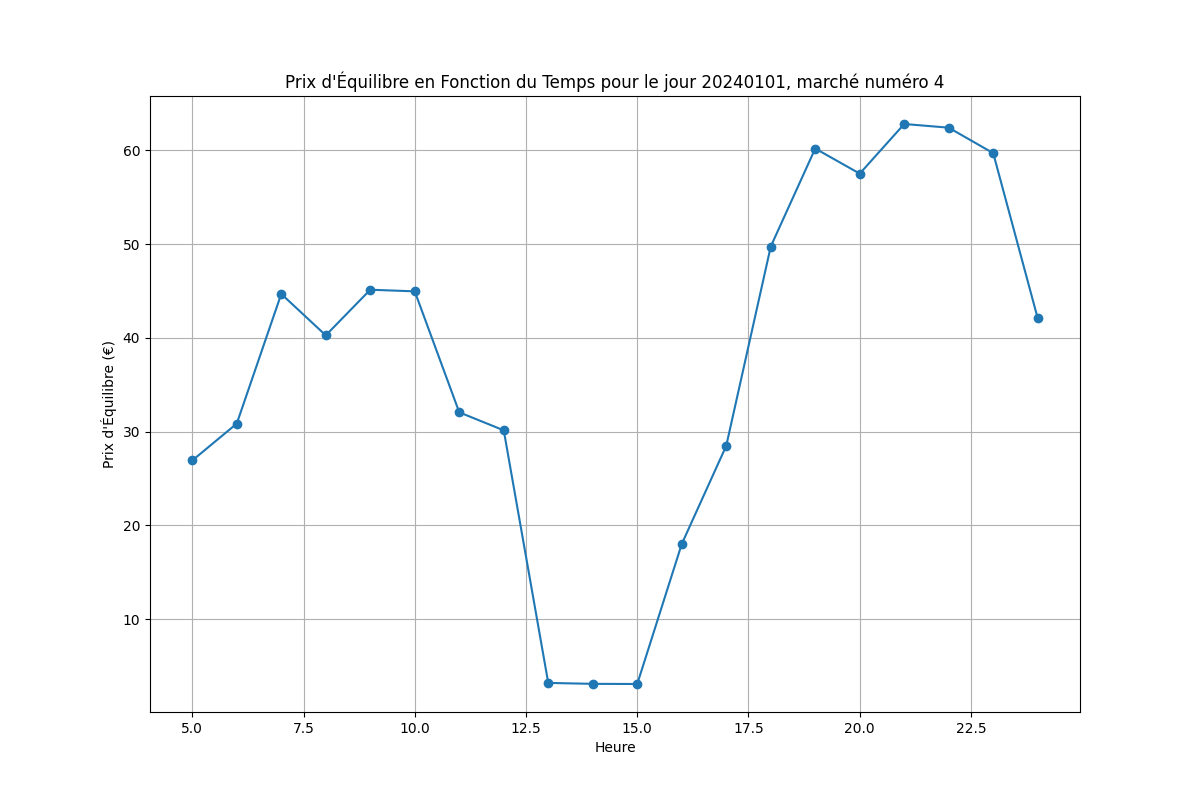
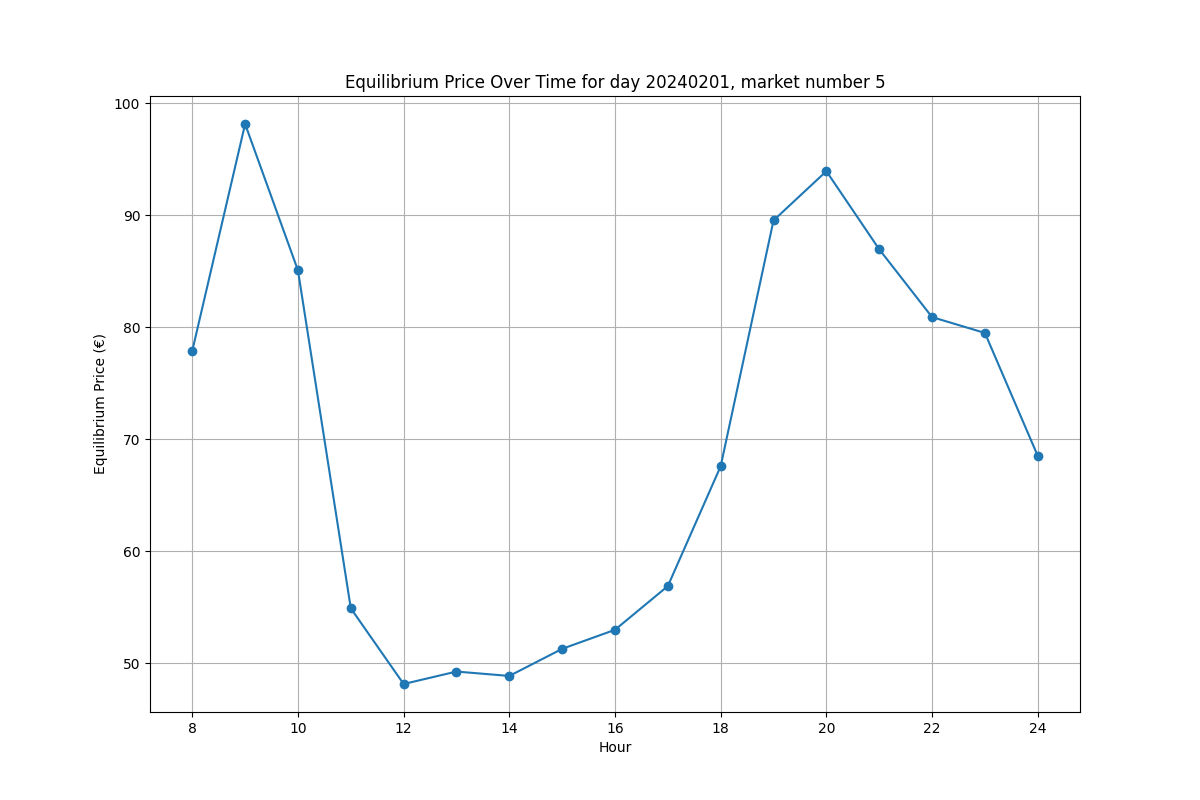
translation of visualisation.py

diff --git a/Grupo_3/app/visualisation.py b/Grupo_3/app/visualisation.py
@@ -6,152 +6,148 @@ from scipy import interpolate
 def aggregated_curve(file_path, hour, day, number):
 
     df = pd.read_csv(file_path, sep=";", encoding="latin1")
-    df_hora = df[df['Hora'] == hour]
+    df_hour = df[df['Hora'] == hour]
 
-    # Filtrer les données pour séparer les types d'offres de vente (V) et d'achat (C)
-    offre = df_hora[df_hora['Tipo Oferta'] == 'V']
-    demande = df_hora[df_hora['Tipo Oferta'] == 'C']
+    # Filter data to separate types of sale (V) and purchase (C) offers
+    offer = df_hour[df_hour['Tipo Oferta'] == 'V']
+    demand = df_hour[df_hour['Tipo Oferta'] == 'C']
 
-    # Agréger les données par quantité cumulée et calculer le prix moyen pour chaque quantité cumulée
-    offre_aggregated = offre.groupby('Precio Compra/Venta')['Energía Compra/Venta'].sum().reset_index()
-    demande_aggregated = demande.groupby('Precio Compra/Venta')['Energía Compra/Venta'].sum().reset_index()
+    # Aggregate data by cumulative quantity and calculate the average price for each cumulative quantity
+    offer_aggregated = offer.groupby('Precio Compra/Venta')['Energía Compra/Venta'].sum().reset_index()
+    demand_aggregated = demand.groupby('Precio Compra/Venta')['Energía Compra/Venta'].sum().reset_index()
 
-    # Trier les données pour que l'offre soit croissante et la demande décroissante
-    offre_aggregated = offre_aggregated.sort_values(by='Precio Compra/Venta')
-    demande_aggregated = demande_aggregated.sort_values(by='Precio Compra/Venta', ascending=False)
+    # Sort data so that the offer is ascending and the demand is descending
+    offer_aggregated = offer_aggregated.sort_values(by='Precio Compra/Venta')
+    demand_aggregated = demand_aggregated.sort_values(by='Precio Compra/Venta', ascending=False)
 
-    # Calculer la quantité cumulée pour l'offre et la demande
-    offre_aggregated['Quantité Cumulée'] = offre_aggregated['Energía Compra/Venta'].cumsum()
-    demande_aggregated['Quantité Cumulée'] = demande_aggregated['Energía Compra/Venta'].cumsum()
+    # Calculate the cumulative quantity for the offer and demand
+    offer_aggregated['Cumulative Quantity'] = offer_aggregated['Energía Compra/Venta'].cumsum()
+    demand_aggregated['Cumulative Quantity'] = demand_aggregated['Energía Compra/Venta'].cumsum()
 
-    # Tracer les courbes d'offre et de demande
+    # Plot the offer and demand curves
     plt.figure(figsize=(12, 8))
 
-    plt.plot(offre_aggregated['Quantité Cumulée'], offre_aggregated['Precio Compra/Venta'], label='Offre (V)', color='blue', marker='o')
-    plt.plot(demande_aggregated['Quantité Cumulée'], demande_aggregated['Precio Compra/Venta'], label='Demande (C)', color='red', marker='o')
+    plt.plot(offer_aggregated['Cumulative Quantity'], offer_aggregated['Precio Compra/Venta'], label='Offer (V)', color='blue', marker='o')
+    plt.plot(demand_aggregated['Cumulative Quantity'], demand_aggregated['Precio Compra/Venta'], label='Demand (C)', color='red', marker='o')
 
-    plt.title(f"Courbes d'Offre (Vente) et de Demande (Achat) pour l'heure {hour}, la date {day} et le marché intraquotidien numéro {number}")
-    plt.xlabel('Quantité Cumulée (MWh)')
-    plt.ylabel('Prix (€)')
+    plt.title(f"Offer (Sale) and Demand (Purchase) Curves for hour {hour}, date {day}, and intraday market number {number}")
+    plt.xlabel('Cumulative Quantity (MWh)')
+    plt.ylabel('Price (€)')
     plt.legend()
     plt.grid(True)
 
     plt.savefig("app/static/aggregated_curve.png")
 
-
-
 def quantity(file_path, day, number):
 
     df = pd.read_csv(file_path, sep=";", encoding="latin1")
-    # visualisation de la quantité totale sur l'horizon d'un temps 
+    # Visualization of the total quantity over the time horizon
 
-    # Liste pour stocker les quantités d'équilibre pour chaque heure
+    # List to store equilibrium quantities for each hour
     equilibrium_quantities = []
 
-    # Calculer la quantité d'équilibre pour chaque heure
-    for hora in sorted(df['Hora'].unique()):
-        df_hora = df[df['Hora'] == hora]
+    # Calculate the equilibrium quantity for each hour
+    for hour in sorted(df['Hora'].unique()):
+        df_hour = df[df['Hora'] == hour]
 
-        # Filtrer les données pour séparer les types d'offres de vente (V) et d'achat (C)
-        offre = df_hora[df_hora['Tipo Oferta'] == 'V']
-        demande = df_hora[df_hora['Tipo Oferta'] == 'C']
+        # Filter data to separate types of sale (V) and purchase (C) offers
+        offer = df_hour[df_hour['Tipo Oferta'] == 'V']
+        demand = df_hour[df_hour['Tipo Oferta'] == 'C']
 
-        if offre.empty or demande.empty:
+        if offer.empty or demand.empty:
             continue
 
-        # Agréger les données par quantité cumulée et calculer le prix moyen pour chaque quantité cumulée
-        offre_aggregated = offre.groupby('Precio Compra/Venta')['Energía Compra/Venta'].sum().reset_index()
-        demande_aggregated = demande.groupby('Precio Compra/Venta')['Energía Compra/Venta'].sum().reset_index()
+        # Aggregate data by cumulative quantity and calculate the average price for each cumulative quantity
+        offer_aggregated = offer.groupby('Precio Compra/Venta')['Energía Compra/Venta'].sum().reset_index()
+        demand_aggregated = demand.groupby('Precio Compra/Venta')['Energía Compra/Venta'].sum().reset_index()
 
-        # Trier les données pour que l'offre soit croissante et la demande décroissante
-        offre_aggregated = offre_aggregated.sort_values(by='Precio Compra/Venta')
-        demande_aggregated = demande_aggregated.sort_values(by='Precio Compra/Venta', ascending=False)
+        # Sort data so that the offer is ascending and the demand is descending
+        offer_aggregated = offer_aggregated.sort_values(by='Precio Compra/Venta')
+        demand_aggregated = demand_aggregated.sort_values(by='Precio Compra/Venta', ascending=False)
 
-        # Calculer la quantité cumulée pour l'offre et la demande
-        offre_aggregated['Quantité Cumulée'] = offre_aggregated['Energía Compra/Venta'].cumsum()
-        demande_aggregated['Quantité Cumulée'] = demande_aggregated['Energía Compra/Venta'].cumsum()
+        # Calculate the cumulative quantity for the offer and demand
+        offer_aggregated['Cumulative Quantity'] = offer_aggregated['Energía Compra/Venta'].cumsum()
+        demand_aggregated['Cumulative Quantity'] = demand_aggregated['Energía Compra/Venta'].cumsum()
 
-        # Créer des fonctions d'interpolation
-        offre_interpol = interpolate.interp1d(offre_aggregated['Quantité Cumulée'], offre_aggregated['Precio Compra/Venta'], bounds_error=False, fill_value="extrapolate")
-        demande_interpol = interpolate.interp1d(demande_aggregated['Quantité Cumulée'], demande_aggregated['Precio Compra/Venta'], bounds_error=False, fill_value="extrapolate")
+        # Create interpolation functions
+        offer_interpol = interpolate.interp1d(offer_aggregated['Cumulative Quantity'], offer_aggregated['Precio Compra/Venta'], bounds_error=False, fill_value="extrapolate")
+        demand_interpol = interpolate.interp1d(demand_aggregated['Cumulative Quantity'], demand_aggregated['Precio Compra/Venta'], bounds_error=False, fill_value="extrapolate")
 
-        # Trouver la quantité où les prix sont égaux (approximation)
-        quantities = np.linspace(max(offre_aggregated['Quantité Cumulée'].min(), demande_aggregated['Quantité Cumulée'].min()), 
-                                min(offre_aggregated['Quantité Cumulée'].max(), demande_aggregated['Quantité Cumulée'].max()), 500)
-        intersection_qty = quantities[np.abs(offre_interpol(quantities) - demande_interpol(quantities)).argmin()]
+        # Find the quantity where prices are equal (approximation)
+        quantities = np.linspace(max(offer_aggregated['Cumulative Quantity'].min(), demand_aggregated['Cumulative Quantity'].min()), 
+                                min(offer_aggregated['Cumulative Quantity'].max(), demand_aggregated['Cumulative Quantity'].max()), 500)
+        intersection_qty = quantities[np.abs(offer_interpol(quantities) - demand_interpol(quantities)).argmin()]
         
-        # Stocker la quantité d'équilibre pour cette heure
-        equilibrium_quantities.append((hora, intersection_qty))
+        # Store the equilibrium quantity for this hour
+        equilibrium_quantities.append((hour, intersection_qty))
 
-        # Convertir la liste des quantités d'équilibre en DataFrame
-        equilibrium_df = pd.DataFrame(equilibrium_quantities, columns=['Hora', 'Quantité d\'Équilibre'])
+        # Convert the list of equilibrium quantities to a DataFrame
+        equilibrium_df = pd.DataFrame(equilibrium_quantities, columns=['Hour', 'Equilibrium Quantity'])
 
-    # Tracer la courbe de la quantité d'équilibre en fonction des heures
+    # Plot the equilibrium quantity over time
     plt.figure(figsize=(12, 8))
-    plt.plot(equilibrium_df['Hora'], equilibrium_df['Quantité d\'Équilibre'], marker='o', linestyle='-')
-    plt.title(f"Quantité d'Équilibre en Fonction du Temps pour le jour {day}, marché numéro {number}")
-    plt.xlabel('Heure')
-    plt.ylabel('Quantité cumulée equilibre (MWh)')
+    plt.plot(equilibrium_df['Hour'], equilibrium_df['Equilibrium Quantity'], marker='o', linestyle='-')
+    plt.title(f"Equilibrium Quantity Over Time for day {day}, market number {number}")
+    plt.xlabel('Hour')
+    plt.ylabel('Cumulative Equilibrium Quantity (MWh)')
     plt.grid(True)
 
     plt.savefig("app/static/quantity.png")
 
-
-
 def price(file_path, day, number):
 
-    #visualisation de l evolution du prix de l 'electrecité sur le temps 
-    # Liste pour stocker les prix d'équilibre pour chaque heure
+    # Visualization of the evolution of electricity prices over time
+    # List to store equilibrium prices for each hour
     equilibrium_prices = []
     df = pd.read_csv(file_path, sep=";", encoding="latin1")
 
-    # Calculer le prix d'équilibre pour chaque heure
-    for hora in sorted(df['Hora'].unique()):
+    # Calculate the equilibrium price for each hour
+    for hour in sorted(df['Hora'].unique()):
             
         df = pd.read_csv(file_path, sep=";", encoding="latin1")
-        df_hora = df[df['Hora'] == hora]
+        df_hour = df[df['Hora'] == hour]
 
-        # Filtrer les données pour séparer les types d'offres de vente (V) et d'achat (C)
-        offre = df_hora[df_hora['Tipo Oferta'] == 'V']
-        demande = df_hora[df_hora['Tipo Oferta'] == 'C']
+        # Filter data to separate types of sale (V) and purchase (C) offers
+        offer = df_hour[df_hour['Tipo Oferta'] == 'V']
+        demand = df_hour[df_hour['Tipo Oferta'] == 'C']
 
-        if offre.empty or demande.empty:
+        if offer.empty or demand.empty:
             continue
 
-        # Agréger les données par quantité cumulée et calculer le prix moyen pour chaque quantité cumulée
-        offre_aggregated = offre.groupby('Precio Compra/Venta')['Energía Compra/Venta'].sum().reset_index()
-        demande_aggregated = demande.groupby('Precio Compra/Venta')['Energía Compra/Venta'].sum().reset_index()
+        # Aggregate data by cumulative quantity and calculate the average price for each cumulative quantity
+        offer_aggregated = offer.groupby('Precio Compra/Venta')['Energía Compra/Venta'].sum().reset_index()
+        demand_aggregated = demand.groupby('Precio Compra/Venta')['Energía Compra/Venta'].sum().reset_index()
 
-        # Trier les données pour que l'offre soit croissante et la demande décroissante
-        offre_aggregated = offre_aggregated.sort_values(by='Precio Compra/Venta')
-        demande_aggregated = demande_aggregated.sort_values(by='Precio Compra/Venta', ascending=False)
+        # Sort data so that the offer is ascending and the demand is descending
+        offer_aggregated = offer_aggregated.sort_values(by='Precio Compra/Venta')
+        demand_aggregated = demand_aggregated.sort_values(by='Precio Compra/Venta', ascending=False)
 
-        # Calculer la quantité cumulée pour l'offre et la demande
-        offre_aggregated['Quantité Cumulée'] = offre_aggregated['Energía Compra/Venta'].cumsum()
-        demande_aggregated['Quantité Cumulée'] = demande_aggregated['Energía Compra/Venta'].cumsum()
+        # Calculate the cumulative quantity for the offer and demand
+        offer_aggregated['Cumulative Quantity'] = offer_aggregated['Energía Compra/Venta'].cumsum()
+        demand_aggregated['Cumulative Quantity'] = demand_aggregated['Energía Compra/Venta'].cumsum()
 
-        # Créer des fonctions d'interpolation
-        offre_interpol = interpolate.interp1d(offre_aggregated['Quantité Cumulée'], offre_aggregated['Precio Compra/Venta'], bounds_error=False, fill_value="extrapolate")
-        demande_interpol = interpolate.interp1d(demande_aggregated['Quantité Cumulée'], demande_aggregated['Precio Compra/Venta'], bounds_error=False, fill_value="extrapolate")
+        # Create interpolation functions
+        offer_interpol = interpolate.interp1d(offer_aggregated['Cumulative Quantity'], offer_aggregated['Precio Compra/Venta'], bounds_error=False, fill_value="extrapolate")
+        demand_interpol = interpolate.interp1d(demand_aggregated['Cumulative Quantity'], demand_aggregated['Precio Compra/Venta'], bounds_error=False, fill_value="extrapolate")
 
-        # Trouver la quantité où les prix sont égaux (approximation)
-        quantities = np.linspace(max(offre_aggregated['Quantité Cumulée'].min(), demande_aggregated['Quantité Cumulée'].min()), 
-                                min(offre_aggregated['Quantité Cumulée'].max(), demande_aggregated['Quantité Cumulée'].max()), 500)
-        intersection_qty = quantities[np.abs(offre_interpol(quantities) - demande_interpol(quantities)).argmin()]
-        intersection_price = offre_interpol(intersection_qty)
+        # Find the quantity where prices are equal (approximation)
+        quantities = np.linspace(max(offer_aggregated['Cumulative Quantity'].min(), demand_aggregated['Cumulative Quantity'].min()), 
+                                min(offer_aggregated['Cumulative Quantity'].max(), demand_aggregated['Cumulative Quantity'].max()), 500)
+        intersection_qty = quantities[np.abs(offer_interpol(quantities) - demand_interpol(quantities)).argmin()]
+        intersection_price = offer_interpol(intersection_qty)
         
-        # Stocker le prix d'équilibre pour cette heure
-        equilibrium_prices.append((hora, intersection_price))
+        # Store the equilibrium price for this hour
+        equilibrium_prices.append((hour, intersection_price))
 
-    # Convertir la liste des prix d'équilibre en DataFrame
-    equilibrium_df = pd.DataFrame(equilibrium_prices, columns=['Hora', 'Prix d\'Équilibre'])
+    # Convert the list of equilibrium prices to a DataFrame
+    equilibrium_df = pd.DataFrame(equilibrium_prices, columns=['Hour', 'Equilibrium Price'])
 
-    # Tracer la courbe du prix d'équilibre en fonction des heures
+    # Plot the equilibrium price over time
     plt.figure(figsize=(12, 8))
-    plt.plot(equilibrium_df['Hora'], equilibrium_df['Prix d\'Équilibre'], marker='o', linestyle='-')
-    plt.title(f"Prix d'Équilibre en Fonction du Temps pour le jour {day}, marché numéro {number}")
-    plt.xlabel('Heure')
-    plt.ylabel('Prix d\'Équilibre (€)')
+    plt.plot(equilibrium_df['Hour'], equilibrium_df['Equilibrium Price'], marker='o', linestyle='-')
+    plt.title(f"Equilibrium Price Over Time for day {day}, market number {number}")
+    plt.xlabel('Hour')
+    plt.ylabel('Equilibrium Price (€)')
     plt.grid(True)
 
     plt.savefig("app/static/price.png")

diff --git a/Grupo_3/readme.md b/Grupo_3/readme.md
@@ -4,7 +4,7 @@ All rights reserved.
 
 # How to run the flask application ?
 
-In a Git Bash terminal :
+In a Git Bash terminal and in the "/Grupo_3/app" folder (where there is the `run.py`) :
 
 1. define environment variable  
 ``$ export FLASK_APP=run.py``  
